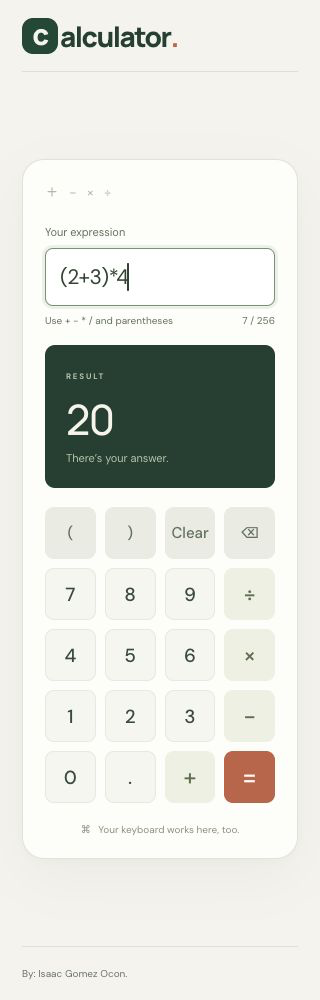
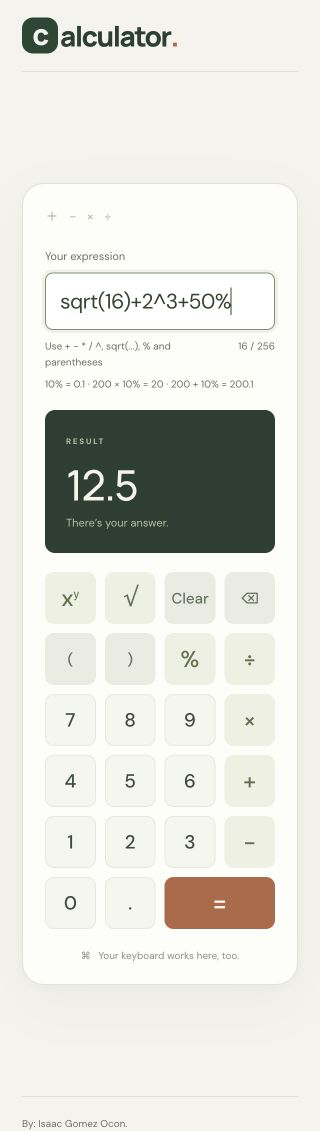
updated prompt log and documentation

diff --git a/PROMPT_LOG.md b/PROMPT_LOG.md
@@ -216,3 +216,43 @@ Outcome: implemented exponentiation, square root, and postfix percentage with th
 ```text
 ok continue with the implementation
 ```
+
+## Prompt 17 — plan frontend controls for optional operations
+
+Date: 2026-10-25
+Tool: Codex desktop
+Context: prompt logging resumed before this entry; the pause/resume instructions and excluded messages are not recorded.
+Outcome: proposed a three-button advanced row, square-root insertion/wrapping, input guidance, and verification steps for review and approval. Application code was not changed.
+
+```text
+ok now let's add support for the new operations on the front, first explain the plan for review and approval
+```
+
+## Prompt 18 — implement frontend controls for optional operations
+
+Date: 2026-10-26
+Tool: Codex desktop
+Outcome: added Power, Square root, and Percentage controls, square-root template insertion/selection wrapping, and syntax/percentage help. All 37 tests and TypeScript/production build pass; verified controls against Go and refreshed desktop/mobile screenshots.
+
+```text
+ok continue with the implementation
+```
+
+## Prompt 19 — reorder the keypad and widen equals
+
+Date: 2026-10-26
+Tool: Codex desktop
+Outcome: reordered the keypad into the requested six rows, made equals span two columns, removed the separate advanced-row grid, and refreshed documentation/screenshots. All 37 frontend tests and the TypeScript/production build pass.
+
+```text
+ok i want to reorder the buttons on the calculator
+
+1. exponentiation, square root, clear, deletion
+2. (, ), percentage, division
+3. 7, 8, 9 , multiplication
+4. 4 ,5, 6, +
+5. 1, 2, 3, −
+6. 0, ., =
+
+and lets make the equal twice the with of a normal button.
+```
